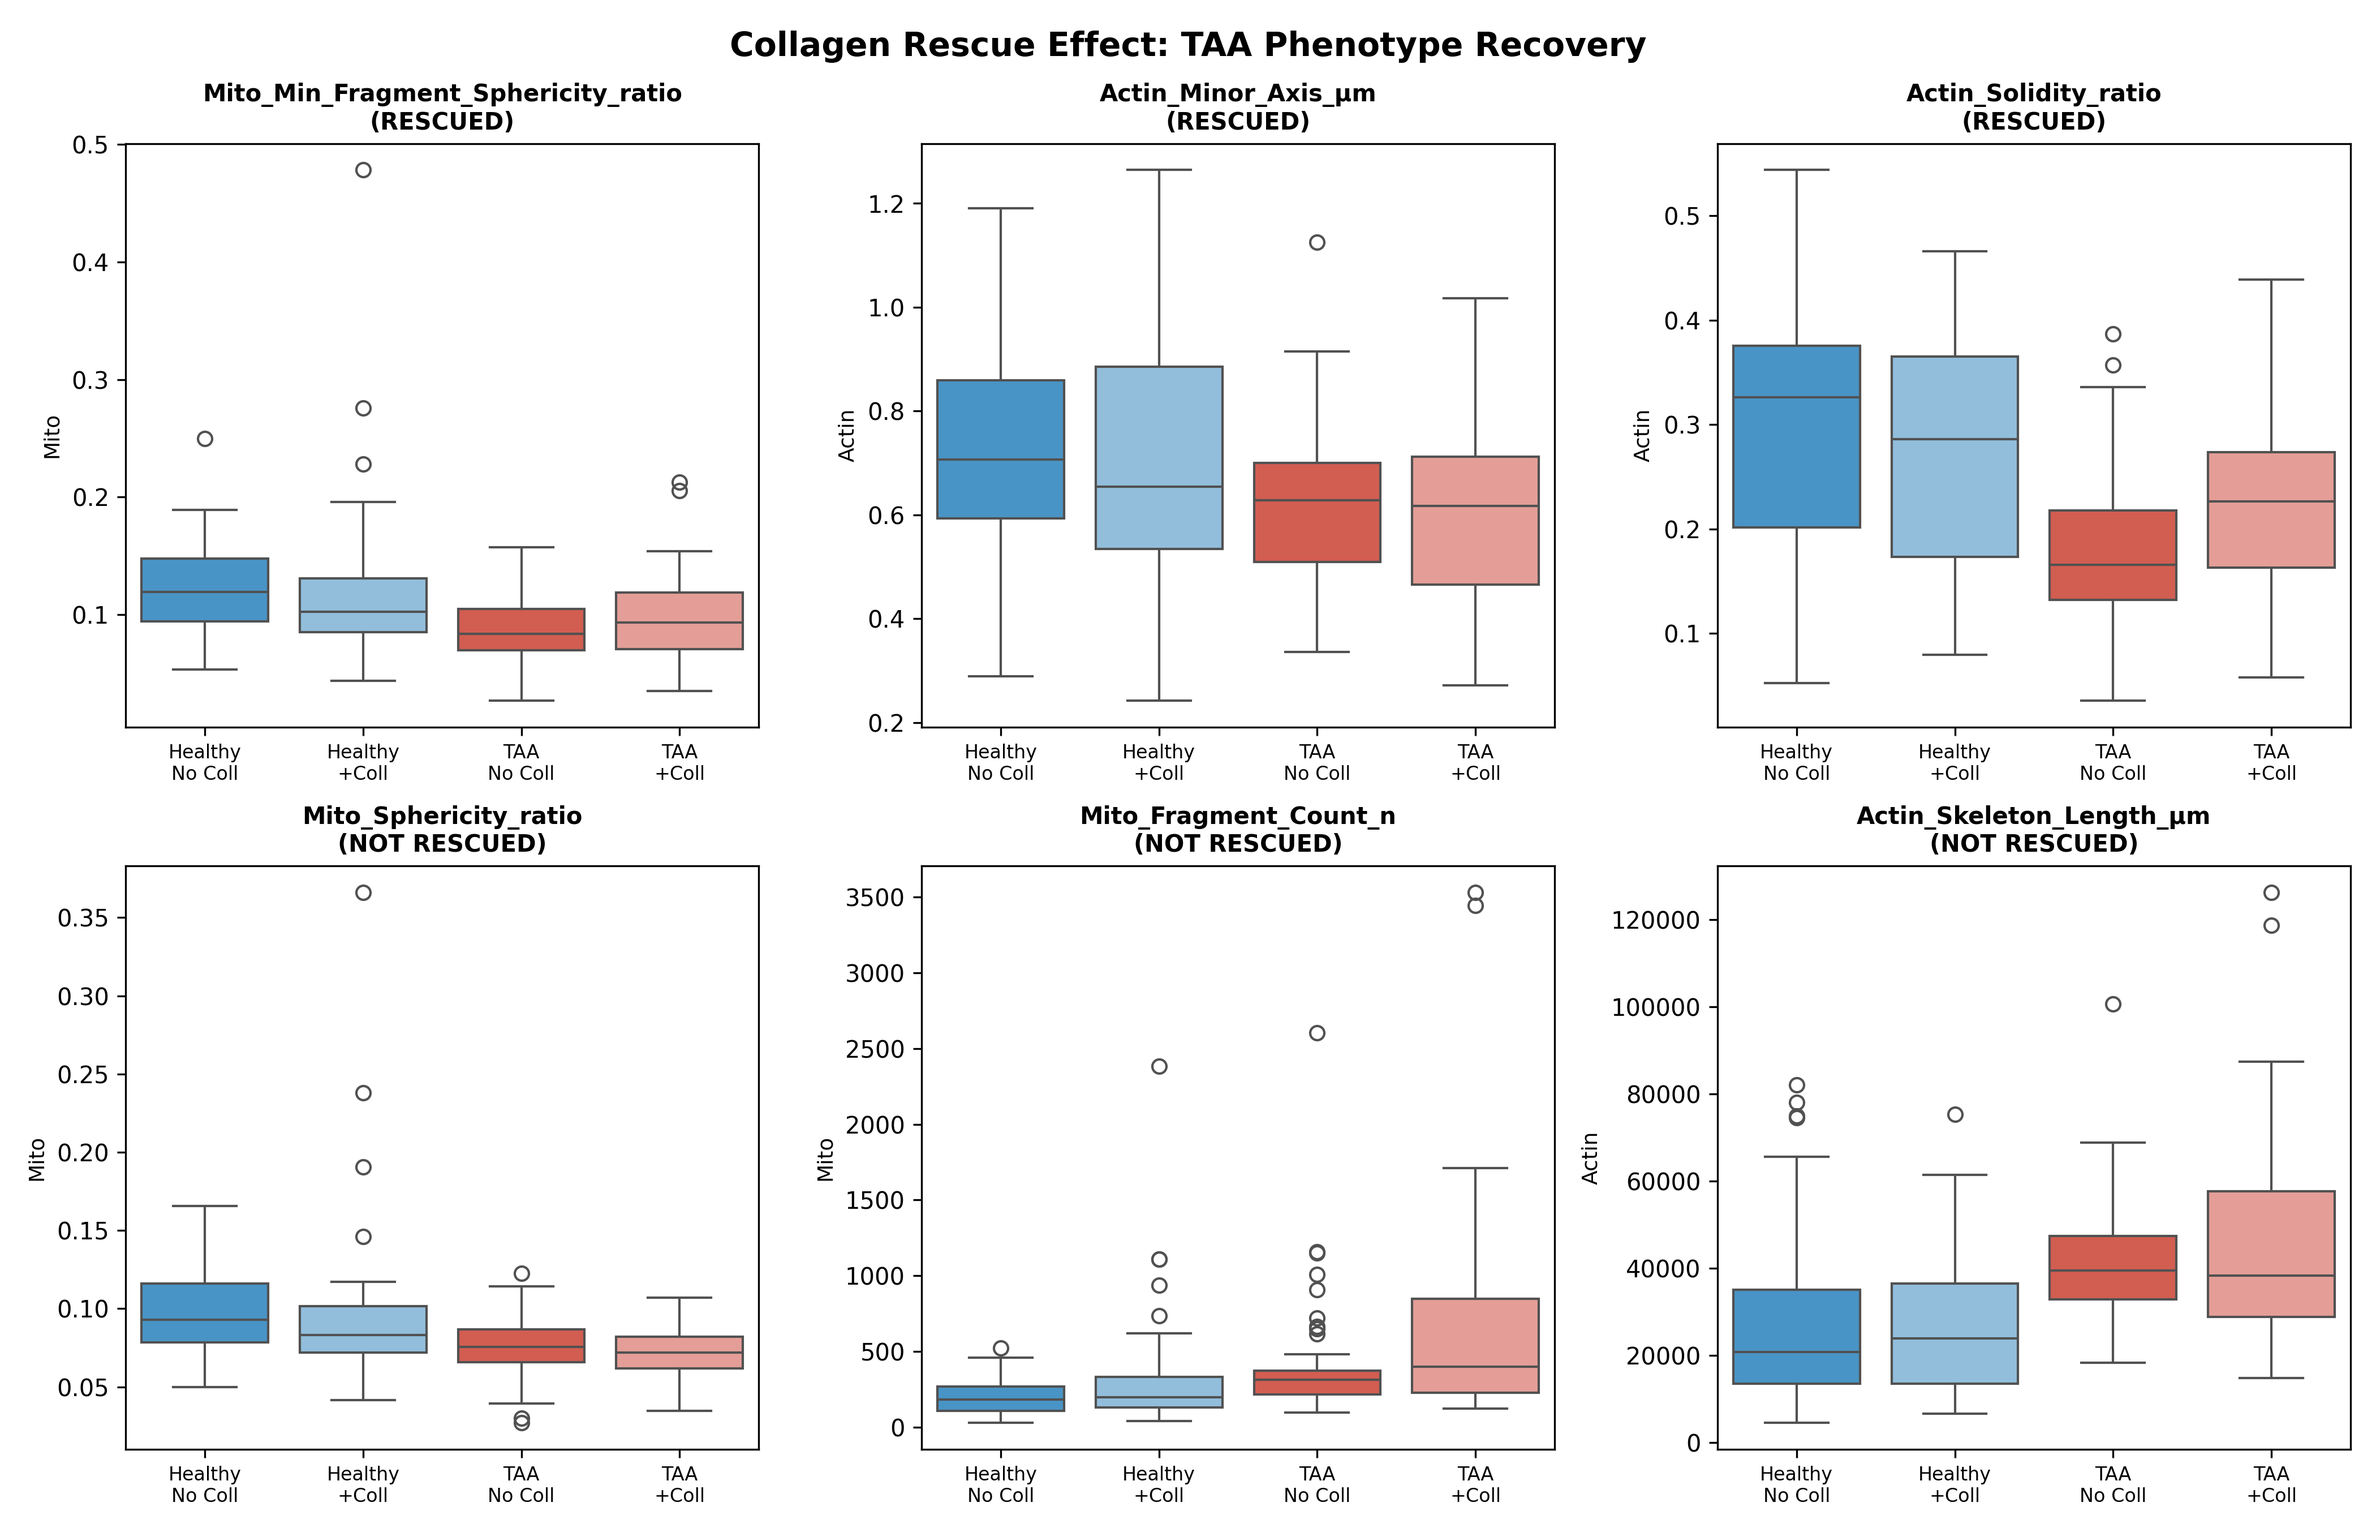
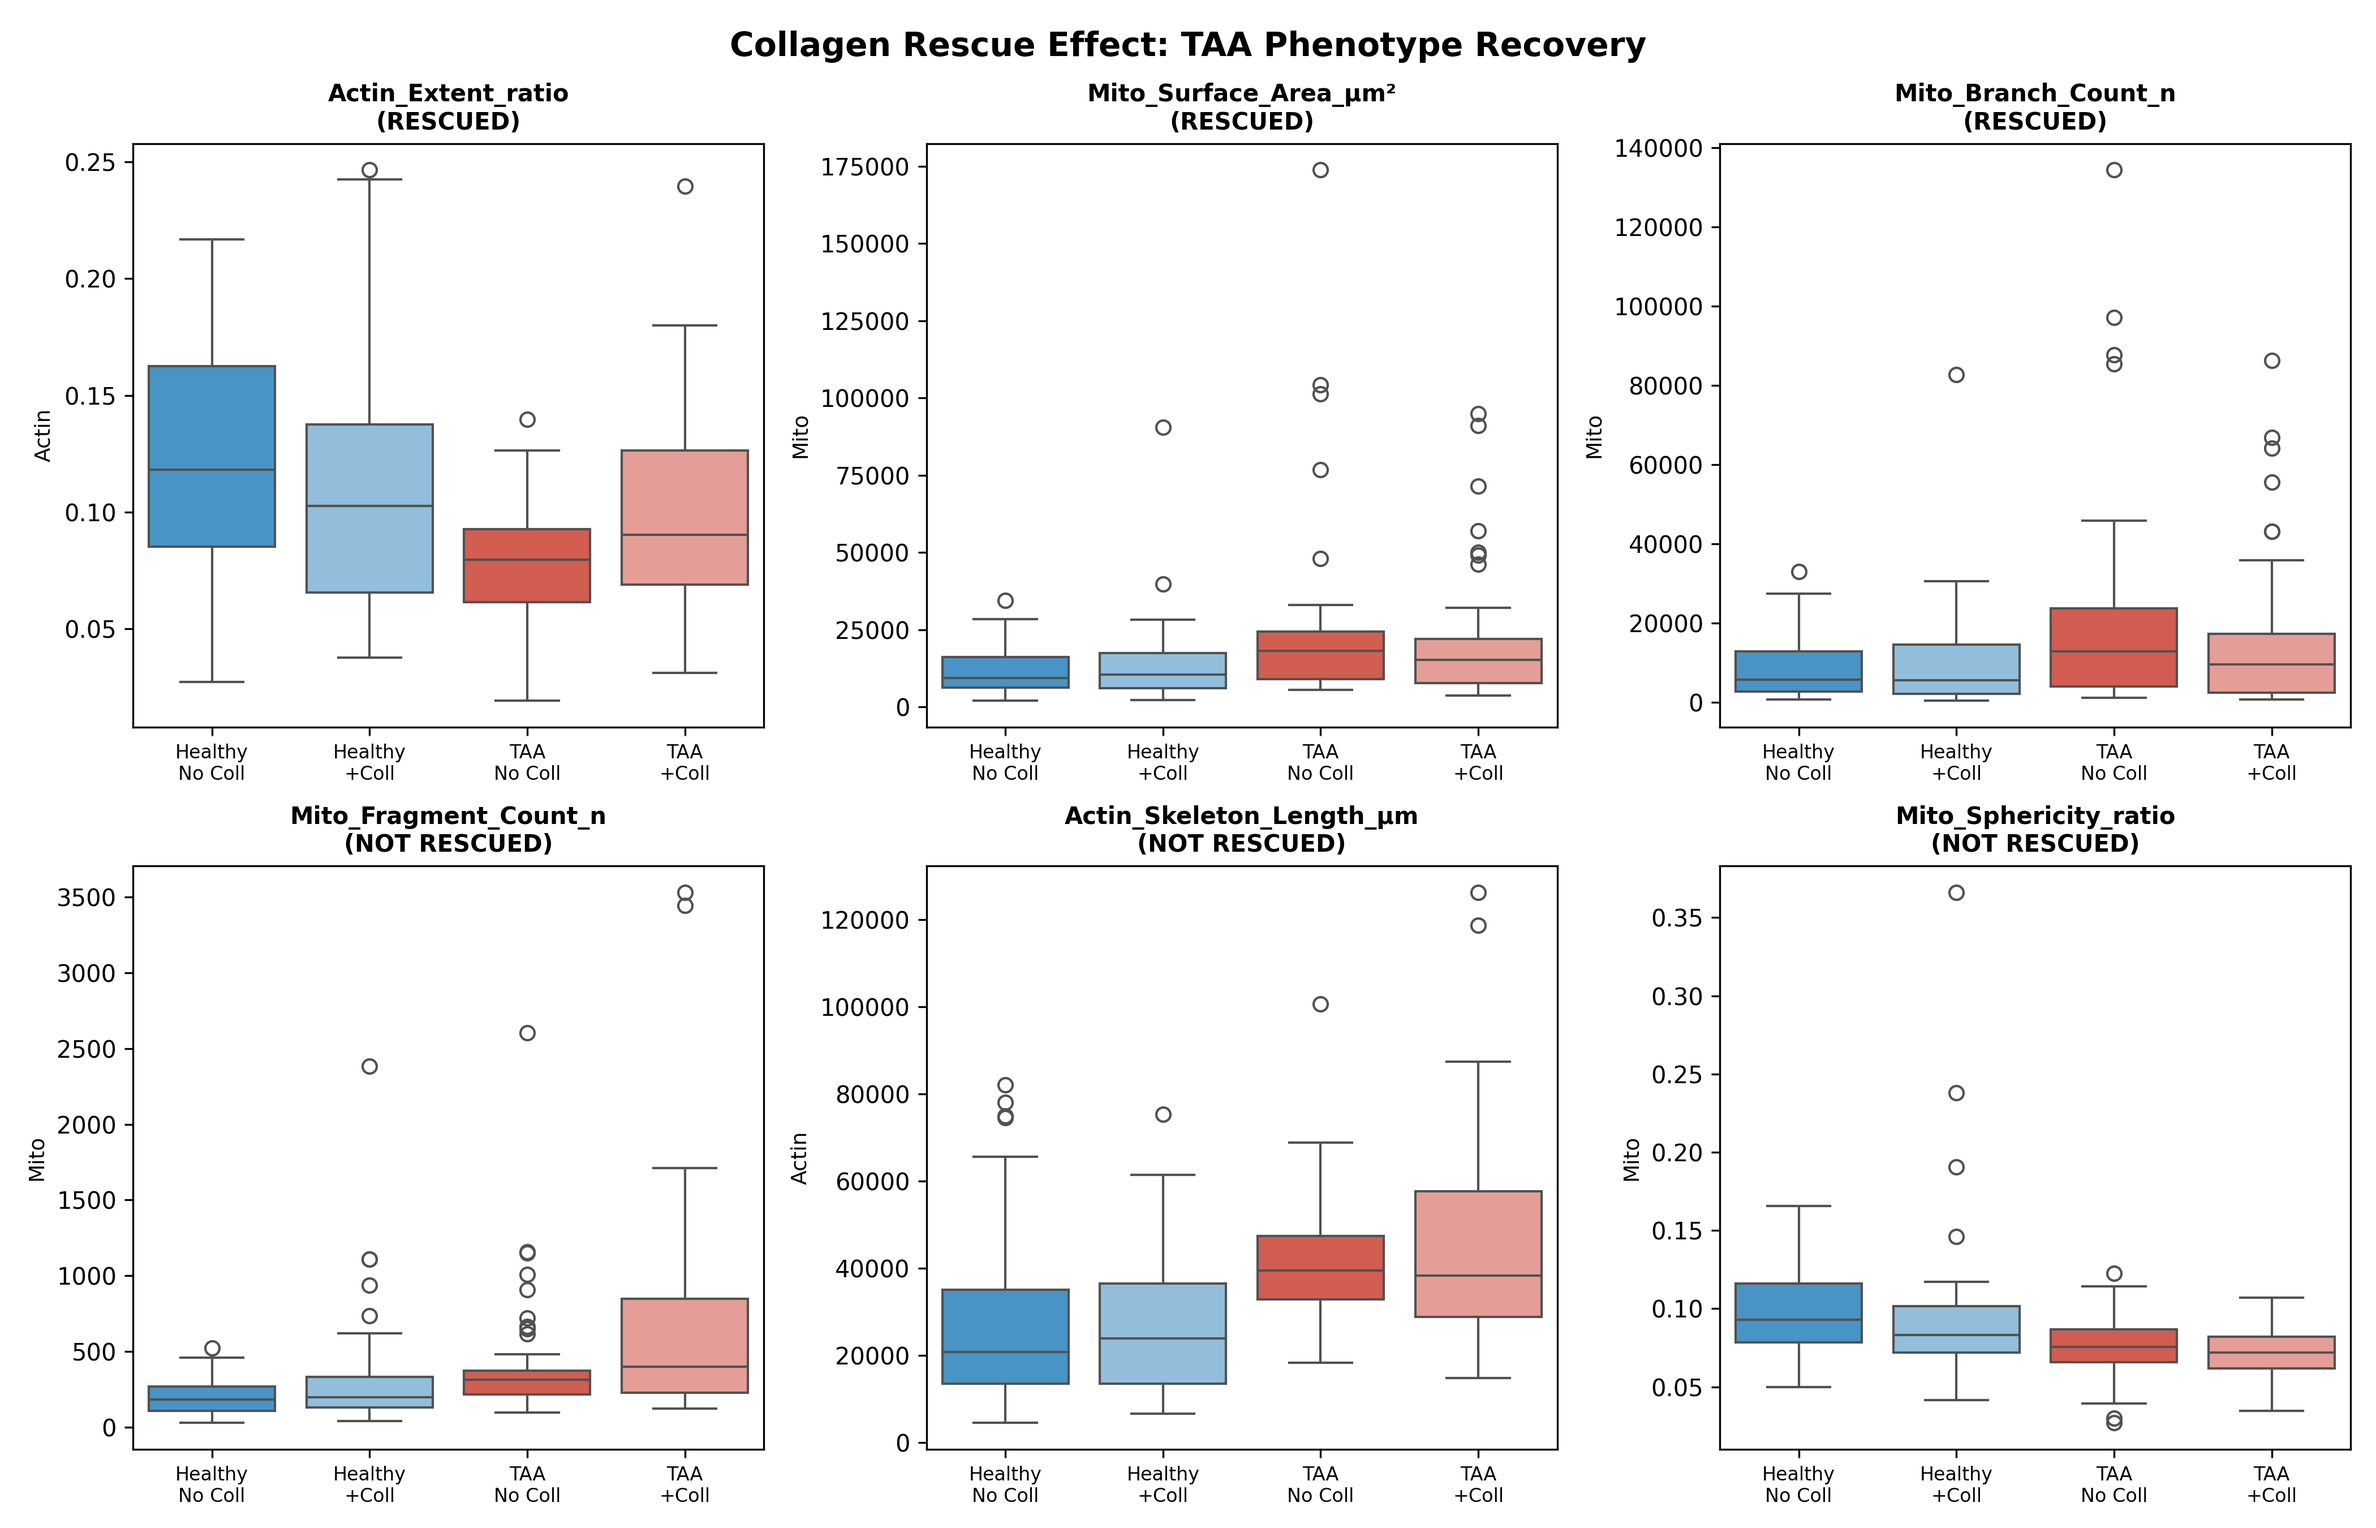
Increase font sizes and change to boxplots for effect size visualizations

diff --git a/src/analysis/src/analysis/stats_TAAvsHealthyNoColl.py b/src/analysis/src/analysis/stats_TAAvsHealthyNoColl.py
@@ -288,47 +288,42 @@ def main():
     plt.savefig(f'{OUTPUT_DIR}/top_features_violin_plots.png', dpi=300)
     print(f"Saved: {OUTPUT_DIR}/top_features_violin_plots.png")
     
-    # 10. Cohen's d effect size bar plot (all features)
-    fig, ax = plt.subplots(figsize=(12, 8))
+    # 10. Boxplot for top features showing Healthy vs TAA
+    # Select top 10 features by effect size for boxplot
+    top_10_features = results_df.head(10)['Feature'].tolist()
     
-    # Sort by absolute effect size
-    results_sorted = results_df.sort_values('Effect_Size_Cohens_d', key=abs, ascending=True)
+    fig, axes = plt.subplots(2, 5, figsize=(20, 10))
+    axes = axes.flatten()
     
-    # Color by direction: positive (TAA higher) = red, negative (TAA lower) = blue
-    colors = ['#E74C3C' if d > 0 else '#3498DB' for d in results_sorted['Effect_Size_Cohens_d']]
+    for i, feature in enumerate(top_10_features):
+        ax = axes[i]
+        plot_data = df_nocol[['Disease', feature]].dropna()
+        
+        sns.boxplot(data=plot_data, x='Disease', y=feature, ax=ax, 
+                   palette={'Healthy': '#3498DB', 'TAA': '#E74C3C'})
+        
+        # Get stats for this feature
+        feature_stats = results_df[results_df['Feature'] == feature].iloc[0]
+        d_val = feature_stats['Effect_Size_Cohens_d']
+        p_val = feature_stats['p_adjusted_FDR']
+        
+        if p_val < 0.001:
+            sig_label = '***'
+        elif p_val < 0.01:
+            sig_label = '**'
+        elif p_val < 0.05:
+            sig_label = '*'
+        else:
+            sig_label = ''
+        
+        ax.set_title(f"{feature}\nd={d_val:.2f} {sig_label}", fontsize=11, fontweight='bold')
+        ax.set_xlabel('')
+        ax.set_ylabel(feature, fontsize=10)
+        ax.tick_params(axis='x', labelsize=11)
+        ax.tick_params(axis='y', labelsize=10)
     
-    # Create horizontal bar plot
-    y_pos = range(len(results_sorted))
-    ax.barh(y_pos, results_sorted['Effect_Size_Cohens_d'], color=colors, edgecolor='black', alpha=0.8)
-    
-    # Add feature names
-    ax.set_yticks(y_pos)
-    ax.set_yticklabels(results_sorted['Feature'], fontsize=9)
-    
-    # Add reference lines for effect size thresholds
-    ax.axvline(x=0, color='black', linewidth=1)
-    ax.axvline(x=0.8, color='gray', linestyle='--', linewidth=1, alpha=0.5)
-    ax.axvline(x=-0.8, color='gray', linestyle='--', linewidth=1, alpha=0.5)
-    ax.axvline(x=0.5, color='gray', linestyle=':', linewidth=1, alpha=0.5)
-    ax.axvline(x=-0.5, color='gray', linestyle=':', linewidth=1, alpha=0.5)
-    
-    # Labels
-    ax.set_xlabel("Cohen's d (Effect Size)", fontsize=12, fontweight='bold')
-    ax.set_ylabel('Feature', fontsize=12, fontweight='bold')
-    ax.set_title("Effect Size (Cohen's d) for All Features", fontsize=14, fontweight='bold')
-    ax.grid(axis='x', alpha=0.3)
-    
-    # Add legend in bottom right
-    from matplotlib.patches import Patch
-    from matplotlib.lines import Line2D
-    legend_elements = [
-        Patch(facecolor='#E74C3C', edgecolor='black', label='TAA > Healthy'),
-        Patch(facecolor='#3498DB', edgecolor='black', label='TAA < Healthy'),
-        Line2D([0], [0], color='gray', linestyle='--', label='Large effect (|d|>0.8)'),
-        Line2D([0], [0], color='gray', linestyle=':', label='Medium effect (|d|>0.5)')
-    ]
-    ax.legend(handles=legend_elements, loc='lower right', fontsize=9, framealpha=0.95)
-    
+    plt.suptitle("Top 10 Features: Healthy vs TAA (No Collagen)\nCohen's d Effect Sizes", 
+                 fontsize=16, fontweight='bold')
     plt.tight_layout()
     plt.savefig(f'{OUTPUT_DIR}/cohens_d_effect_sizes.png', dpi=300)
     print(f"Saved: {OUTPUT_DIR}/cohens_d_effect_sizes.png")

diff --git a/src/analysis/src/analysis/pairwiseComparison.py b/src/analysis/src/analysis/pairwiseComparison.py
@@ -274,16 +274,16 @@ def main():
             else:
                 labels.append(feat)
         
-        ax.set_yticklabels(labels, fontsize=8)
+        ax.set_yticklabels(labels, fontsize=10)
         ax.axvline(x=0, color='black', linewidth=1)
         ax.axvline(x=0.8, color='gray', linestyle='--', linewidth=1, alpha=0.5)
         ax.axvline(x=-0.8, color='gray', linestyle='--', linewidth=1, alpha=0.5)
-        ax.set_xlabel("Cohen's d", fontsize=10)
-        ax.set_title(name, fontsize=11, fontweight='bold')
+        ax.set_xlabel("Cohen's d", fontsize=12, fontweight='bold')
+        ax.set_title(name, fontsize=13, fontweight='bold')
         ax.grid(axis='x', alpha=0.3)
     
     plt.suptitle("Effect Sizes (Cohen's d) for All Pairwise Comparisons\nTop 10 Features per Comparison", 
-                 fontsize=14, fontweight='bold')
+                 fontsize=16, fontweight='bold')
     plt.tight_layout()
     plt.savefig(f'{OUTPUT_DIR}/pairwise_effect_sizes.png', dpi=300)
     print(f"Saved: {OUTPUT_DIR}/pairwise_effect_sizes.png")
